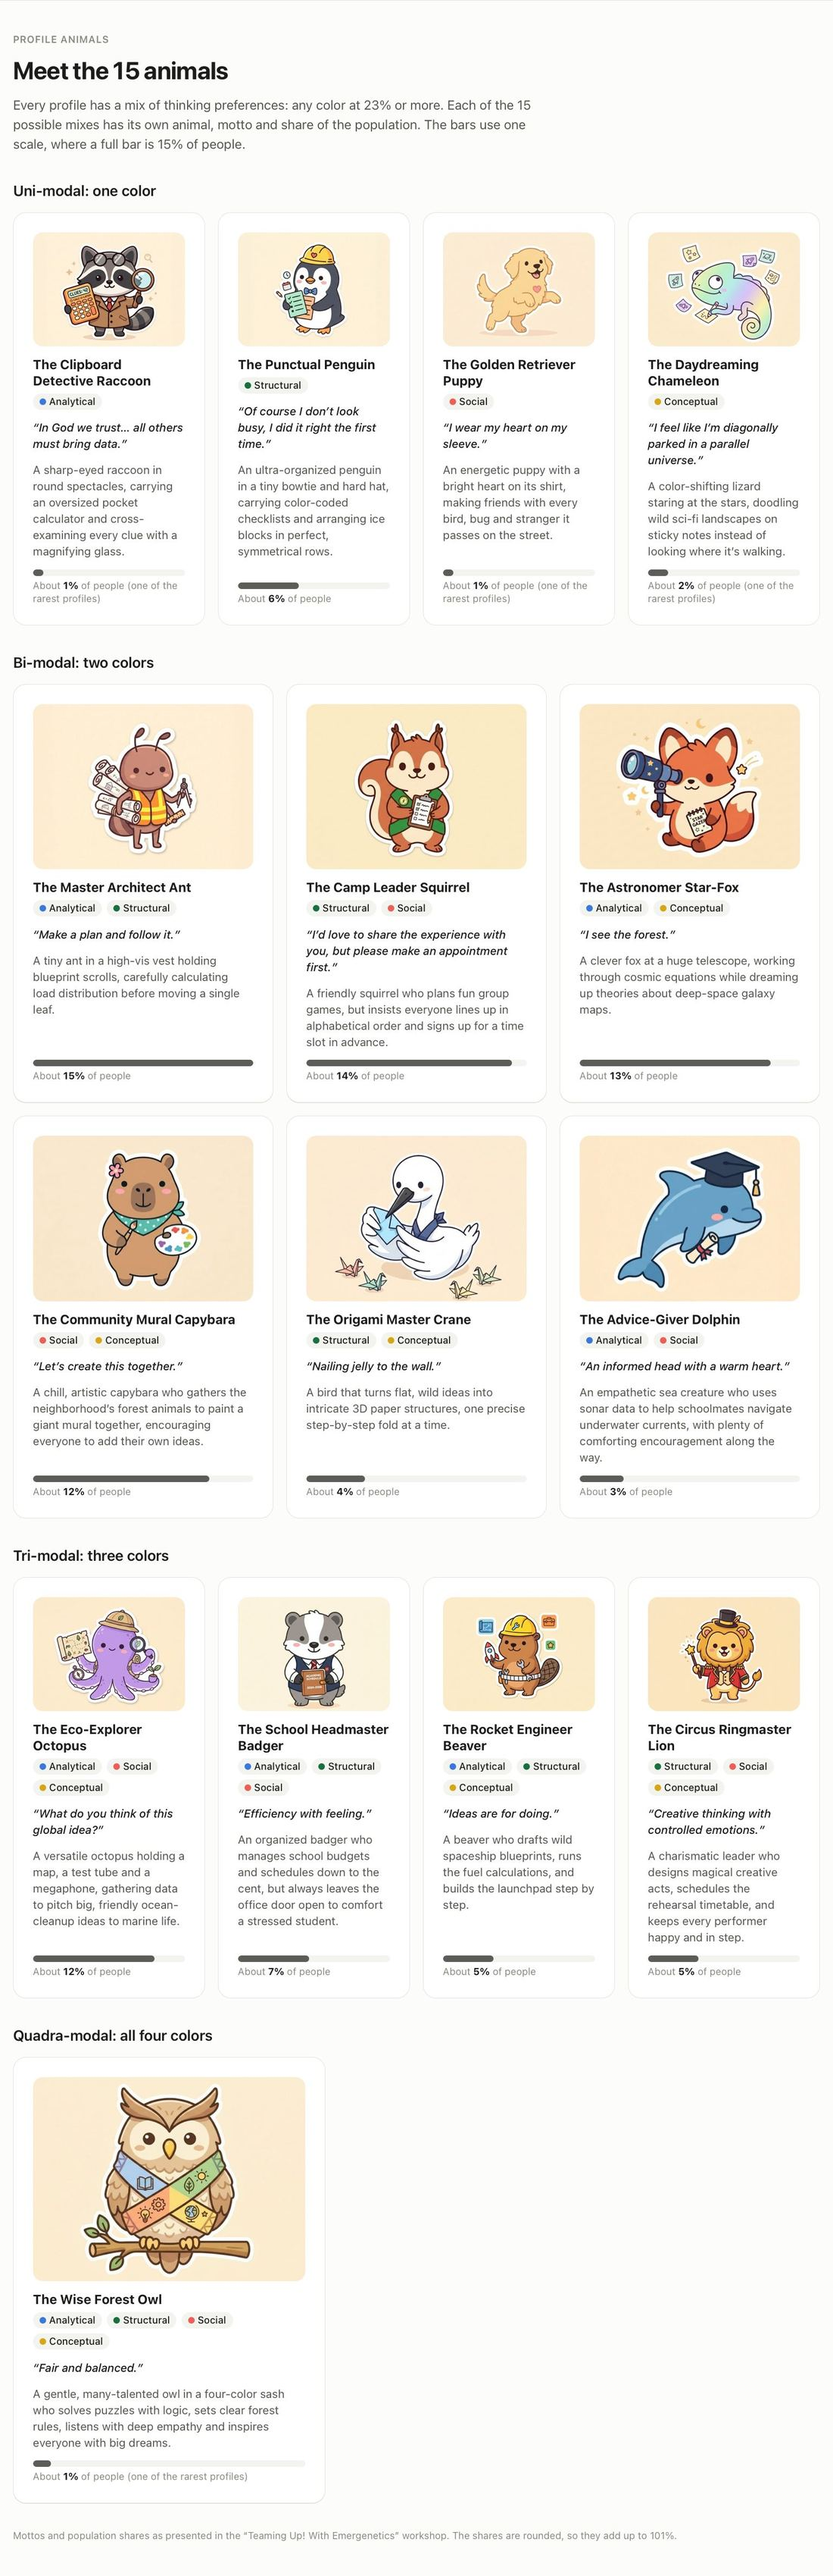
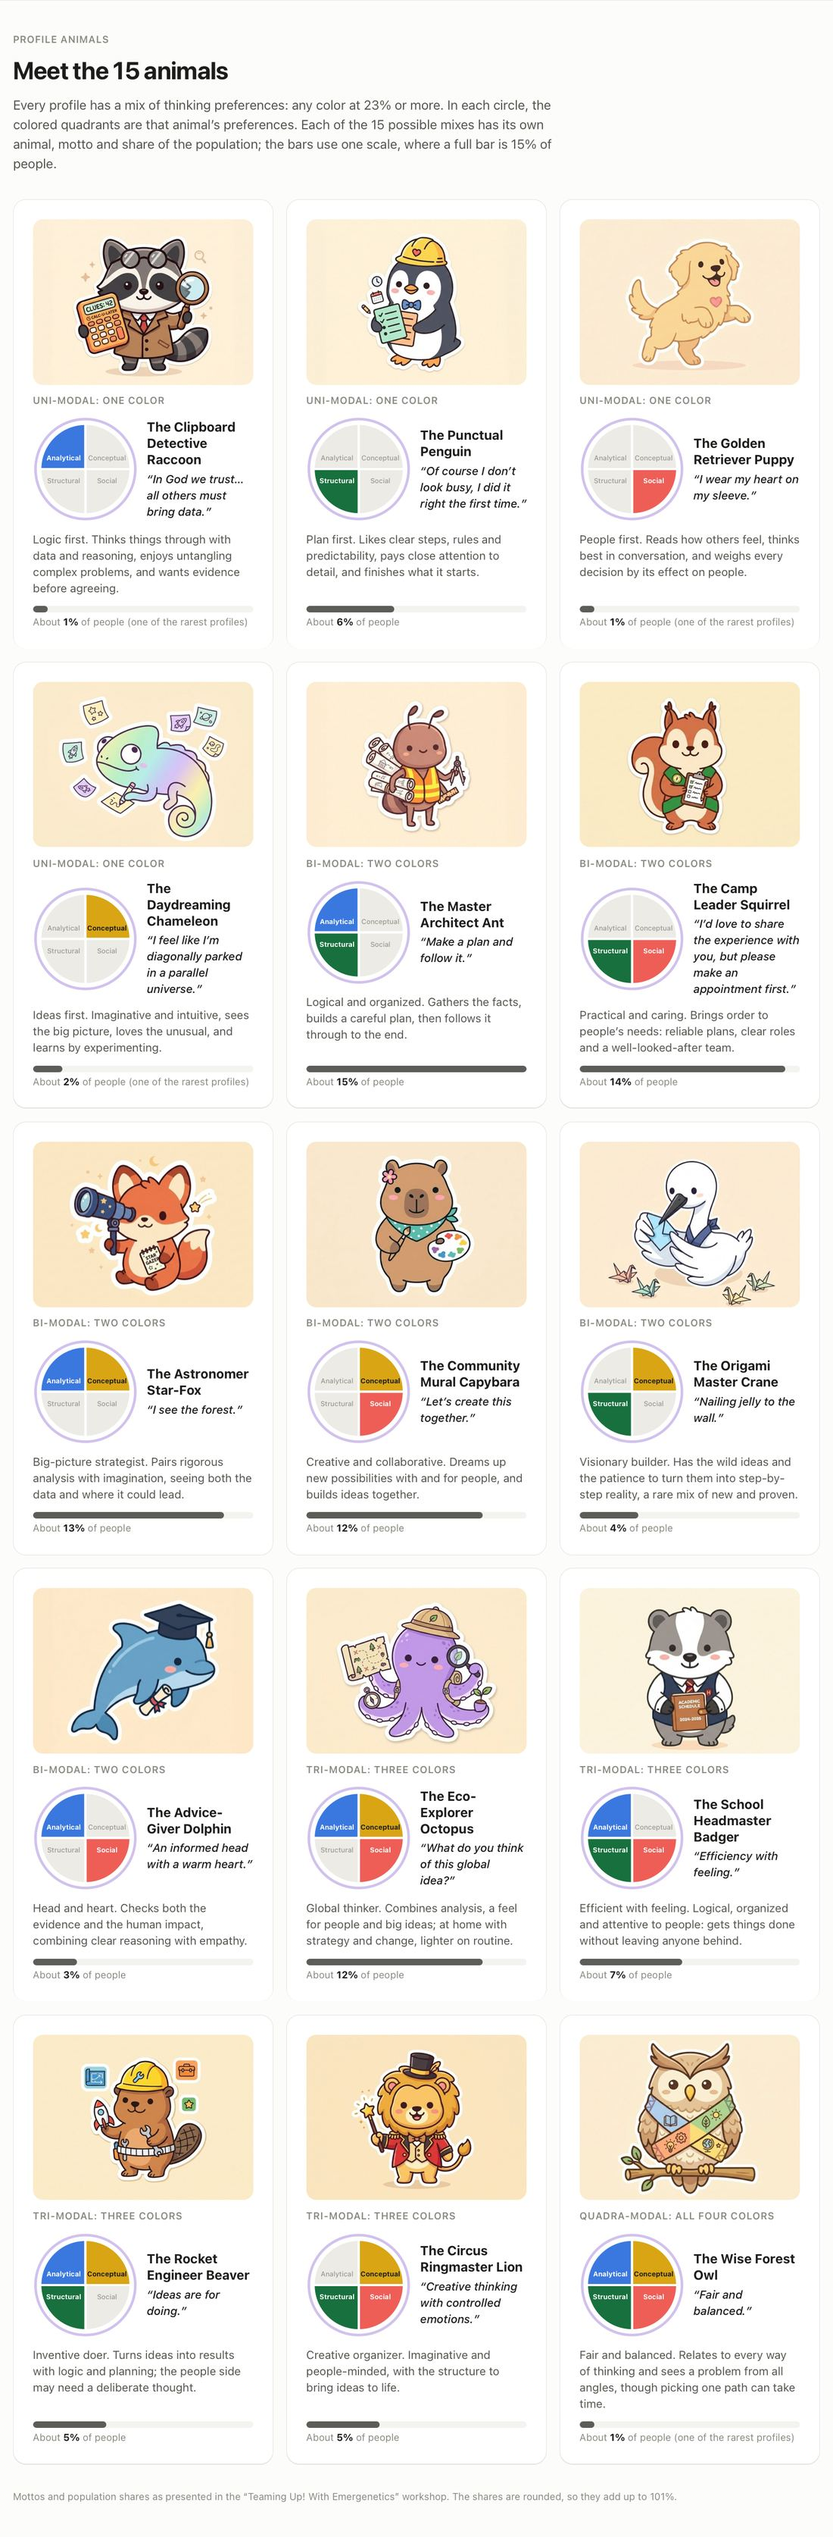
Animals: model circle, type summaries, even 3-column gallery
- Each animal shows the Emergenetics model as a four-quadrant circle
  (Analytical top-left, Conceptual top-right, Structural bottom-left,
  Social bottom-right): preferred quadrants in color, the rest pale, with a
  purple ring for the behaviors. Replaces the color chips.
- The illustration briefs are replaced with a short description of each
  thinking-preference mix.
- The gallery is one grid of five rows of three (each card labeled with its
  group), instead of per-group grids that left single cards on a row.

diff --git a/src/lib/animals.ts b/src/lib/animals.ts
@@ -2,13 +2,14 @@ import { THINKING_KEYS, type ThinkingKey } from "./attributes";
 
 // One animal for each combination of thinking preferences (15 in all: every set of one to
 // four colors). Mottos and population shares are as presented in the "Teaming Up! With
-// Emergenetics" workshop; the animals and their descriptions are this project's own.
+// Emergenetics" workshop; the animals and summaries are this project's own.
 
 export interface Animal {
   /** Thinking preferences, in the standard Analytical/Structural/Social/Conceptual order. */
   colors: ThinkingKey[];
   name: string;
-  description: string;
+  /** What this mix of thinking preferences is like, in a sentence or two. */
+  summary: string;
   motto: string;
   /** Share of people with this profile, in percent. */
   rarity: number;
@@ -19,8 +20,7 @@ export const ANIMALS: Animal[] = [
   {
     colors: ["analytical"],
     name: "The Clipboard Detective Raccoon",
-    description:
-      "A sharp-eyed raccoon in round spectacles, carrying an oversized pocket calculator and cross-examining every clue with a magnifying glass.",
+    summary: "Logic first. Thinks things through with data and reasoning, enjoys untangling complex problems, and wants evidence before agreeing.",
     motto: "In God we trust… all others must bring data.",
     rarity: 1,
     image: "raccoon.jpg",
@@ -28,8 +28,7 @@ export const ANIMALS: Animal[] = [
   {
     colors: ["structural"],
     name: "The Punctual Penguin",
-    description:
-      "An ultra-organized penguin in a tiny bowtie and hard hat, carrying color-coded checklists and arranging ice blocks in perfect, symmetrical rows.",
+    summary: "Plan first. Likes clear steps, rules and predictability, pays close attention to detail, and finishes what it starts.",
     motto: "Of course I don’t look busy, I did it right the first time.",
     rarity: 6,
     image: "penguin.jpg",
@@ -37,8 +36,7 @@ export const ANIMALS: Animal[] = [
   {
     colors: ["social"],
     name: "The Golden Retriever Puppy",
-    description:
-      "An energetic puppy with a bright heart on its shirt, making friends with every bird, bug and stranger it passes on the street.",
+    summary: "People first. Reads how others feel, thinks best in conversation, and weighs every decision by its effect on people.",
     motto: "I wear my heart on my sleeve.",
     rarity: 1,
     image: "puppy.jpg",
@@ -46,8 +44,7 @@ export const ANIMALS: Animal[] = [
   {
     colors: ["conceptual"],
     name: "The Daydreaming Chameleon",
-    description:
-      "A color-shifting lizard staring at the stars, doodling wild sci-fi landscapes on sticky notes instead of looking where it’s walking.",
+    summary: "Ideas first. Imaginative and intuitive, sees the big picture, loves the unusual, and learns by experimenting.",
     motto: "I feel like I’m diagonally parked in a parallel universe.",
     rarity: 2,
     image: "chameleon.jpg",
@@ -55,8 +52,7 @@ export const ANIMALS: Animal[] = [
   {
     colors: ["analytical", "structural"],
     name: "The Master Architect Ant",
-    description:
-      "A tiny ant in a high-vis vest holding blueprint scrolls, carefully calculating load distribution before moving a single leaf.",
+    summary: "Logical and organized. Gathers the facts, builds a careful plan, then follows it through to the end.",
     motto: "Make a plan and follow it.",
     rarity: 15,
     image: "ant.jpg",
@@ -64,8 +60,7 @@ export const ANIMALS: Animal[] = [
   {
     colors: ["structural", "social"],
     name: "The Camp Leader Squirrel",
-    description:
-      "A friendly squirrel who plans fun group games, but insists everyone lines up in alphabetical order and signs up for a time slot in advance.",
+    summary: "Practical and caring. Brings order to people\u2019s needs: reliable plans, clear roles and a well-looked-after team.",
     motto: "I’d love to share the experience with you, but please make an appointment first.",
     rarity: 14,
     image: "squirrel.jpg",
@@ -73,8 +68,7 @@ export const ANIMALS: Animal[] = [
   {
     colors: ["analytical", "conceptual"],
     name: "The Astronomer Star-Fox",
-    description:
-      "A clever fox at a huge telescope, working through cosmic equations while dreaming up theories about deep-space galaxy maps.",
+    summary: "Big-picture strategist. Pairs rigorous analysis with imagination, seeing both the data and where it could lead.",
     motto: "I see the forest.",
     rarity: 13,
     image: "fox.jpg",
@@ -82,8 +76,7 @@ export const ANIMALS: Animal[] = [
   {
     colors: ["social", "conceptual"],
     name: "The Community Mural Capybara",
-    description:
-      "A chill, artistic capybara who gathers the neighborhood’s forest animals to paint a giant mural together, encouraging everyone to add their own ideas.",
+    summary: "Creative and collaborative. Dreams up new possibilities with and for people, and builds ideas together.",
     motto: "Let’s create this together.",
     rarity: 12,
     image: "capybara.jpg",
@@ -91,8 +84,7 @@ export const ANIMALS: Animal[] = [
   {
     colors: ["structural", "conceptual"],
     name: "The Origami Master Crane",
-    description:
-      "A bird that turns flat, wild ideas into intricate 3D paper structures, one precise step-by-step fold at a time.",
+    summary: "Visionary builder. Has the wild ideas and the patience to turn them into step-by-step reality, a rare mix of new and proven.",
     motto: "Nailing jelly to the wall.",
     rarity: 4,
     image: "crane.jpg",
@@ -100,8 +92,7 @@ export const ANIMALS: Animal[] = [
   {
     colors: ["analytical", "social"],
     name: "The Advice-Giver Dolphin",
-    description:
-      "An empathetic sea creature who uses sonar data to help schoolmates navigate underwater currents, with plenty of comforting encouragement along the way.",
+    summary: "Head and heart. Checks both the evidence and the human impact, combining clear reasoning with empathy.",
     motto: "An informed head with a warm heart.",
     rarity: 3,
     image: "dolphin.jpg",
@@ -109,8 +100,7 @@ export const ANIMALS: Animal[] = [
   {
     colors: ["analytical", "social", "conceptual"],
     name: "The Eco-Explorer Octopus",
-    description:
-      "A versatile octopus holding a map, a test tube and a megaphone, gathering data to pitch big, friendly ocean-cleanup ideas to marine life.",
+    summary: "Global thinker. Combines analysis, a feel for people and big ideas; at home with strategy and change, lighter on routine.",
     motto: "What do you think of this global idea?",
     rarity: 12,
     image: "octopus.jpg",
@@ -118,8 +108,7 @@ export const ANIMALS: Animal[] = [
   {
     colors: ["analytical", "structural", "social"],
     name: "The School Headmaster Badger",
-    description:
-      "An organized badger who manages school budgets and schedules down to the cent, but always leaves the office door open to comfort a stressed student.",
+    summary: "Efficient with feeling. Logical, organized and attentive to people: gets things done without leaving anyone behind.",
     motto: "Efficiency with feeling.",
     rarity: 7,
     image: "badger.jpg",
@@ -127,8 +116,7 @@ export const ANIMALS: Animal[] = [
   {
     colors: ["analytical", "structural", "conceptual"],
     name: "The Rocket Engineer Beaver",
-    description:
-      "A beaver who drafts wild spaceship blueprints, runs the fuel calculations, and builds the launchpad step by step.",
+    summary: "Inventive doer. Turns ideas into results with logic and planning; the people side may need a deliberate thought.",
     motto: "Ideas are for doing.",
     rarity: 5,
     image: "beaver.jpg",
@@ -136,8 +124,7 @@ export const ANIMALS: Animal[] = [
   {
     colors: ["structural", "social", "conceptual"],
     name: "The Circus Ringmaster Lion",
-    description:
-      "A charismatic leader who designs magical creative acts, schedules the rehearsal timetable, and keeps every performer happy and in step.",
+    summary: "Creative organizer. Imaginative and people-minded, with the structure to bring ideas to life.",
     motto: "Creative thinking with controlled emotions.",
     rarity: 5,
     image: "lion.jpg",
@@ -145,8 +132,7 @@ export const ANIMALS: Animal[] = [
   {
     colors: ["analytical", "structural", "social", "conceptual"],
     name: "The Wise Forest Owl",
-    description:
-      "A gentle, many-talented owl in a four-color sash who solves puzzles with logic, sets clear forest rules, listens with deep empathy and inspires everyone with big dreams.",
+    summary: "Fair and balanced. Relates to every way of thinking and sees a problem from all angles, though picking one path can take time.",
     motto: "Fair and balanced.",
     rarity: 1,
     image: "owl.jpg",

diff --git a/src/app/animals/page.tsx b/src/app/animals/page.tsx
@@ -4,15 +4,8 @@ import Link from "next/link";
 import { ANIMAL_GROUPS, ANIMALS, animalFor, animalImage } from "@/lib/animals";
 import { decodeProfile } from "@/lib/share";
 import { useHash } from "@/lib/useHash";
-import { ColorChips, RarityBar, RARITY_SCALE } from "@/components/AnimalCard";
-
-// Columns that the group fills evenly: 4 animals in one row of four (two rows of two on tablets),
-// 6 in rows of three, and the single quadra-modal owl as one card.
-const GRID: Record<number, string> = {
-  1: "max-w-sm",
-  4: "sm:grid-cols-2 lg:grid-cols-4",
-  6: "sm:grid-cols-2 lg:grid-cols-3",
-};
+import { RarityBar, RARITY_SCALE } from "@/components/AnimalCard";
+import { ModelCircle } from "@/components/ModelCircle";
 
 /** All 15 profile animals, grouped by how many thinking colors are preferences. */
 export default function AnimalsPage() {
@@ -26,9 +19,9 @@ export default function AnimalsPage() {
         <p className="eyebrow">Profile animals</p>
         <h1 className="text-3xl font-bold tracking-tight">Meet the 15 animals</h1>
         <p className="max-w-2xl text-ink-soft">
-          Every profile has a mix of thinking preferences: any color at 23% or more. Each of the 15 possible mixes has its
-          own animal, motto and share of the population. The bars use one scale, where a full bar is {RARITY_SCALE}% of
-          people.
+          Every profile has a mix of thinking preferences: any color at 23% or more. In each circle, the colored quadrants
+          are that animal&rsquo;s preferences. Each of the 15 possible mixes has its own animal, motto and share of the
+          population; the bars use one scale, where a full bar is {RARITY_SCALE}% of people.
         </p>
         {profile && mine && (
           <p className="no-print rounded-xl border border-line bg-surface-card p-3 text-sm">
@@ -40,42 +33,42 @@ export default function AnimalsPage() {
         )}
       </header>
 
-      {ANIMAL_GROUPS.map((g) => (
-        <section key={g.size} className="space-y-3">
-          <h2 className="text-lg font-semibold">{g.title}</h2>
-          <ul className={`grid gap-4 ${GRID[ANIMALS.filter((a) => a.colors.length === g.size).length] ?? GRID[6]}`}>
-            {ANIMALS.filter((a) => a.colors.length === g.size).map((a) => {
-              const isMine = mine?.name === a.name;
-              return (
-                <li
-                  key={a.name}
-                  className={`card flex flex-col gap-3 ${isMine ? "border-ink ring-2 ring-ink" : ""}`}
-                  aria-current={isMine ? "true" : undefined}
-                >
-                  <img
-                    src={animalImage(a)}
-                    alt={`${a.name}: ${a.description}`}
-                    width={640}
-                    height={480}
-                    loading="lazy"
-                    className="w-full rounded-xl"
-                  />
-                  <div className="space-y-1.5">
-                    {isMine && <p className="eyebrow text-ink">{profile?.name}&rsquo;s animal</p>}
-                    <h3 className="font-bold leading-tight">{a.name}</h3>
-                    <ColorChips colors={a.colors} />
-                  </div>
-                  <blockquote className="text-sm font-medium italic">&ldquo;{a.motto}&rdquo;</blockquote>
-                  <p className="text-sm text-ink-soft">{a.description}</p>
-                  <div className="mt-auto">
-                    <RarityBar rarity={a.rarity} />
-                  </div>
-                </li>
-              );
-            })}
-          </ul>
-        </section>
-      ))}
+      {/* One grid of 15 cards: five even rows of three, ordered from one color to all four. */}
+      <ul className="grid gap-4 sm:grid-cols-2 lg:grid-cols-3">
+        {ANIMALS.map((a) => {
+          const isMine = mine?.name === a.name;
+          return (
+            <li
+              key={a.name}
+              className={`card flex flex-col gap-3 ${isMine ? "border-ink ring-2 ring-ink" : ""}`}
+              aria-current={isMine ? "true" : undefined}
+            >
+              <img
+                src={animalImage(a)}
+                alt={a.name}
+                width={640}
+                height={480}
+                loading="lazy"
+                className="w-full rounded-xl"
+              />
+              <p className={`eyebrow ${isMine ? "text-ink" : ""}`}>
+                {isMine ? `${profile?.name}’s animal` : ANIMAL_GROUPS.find((g) => g.size === a.colors.length)?.title}
+              </p>
+              <div className="flex items-center gap-3">
+                <ModelCircle colors={a.colors} size={128} />
+                <div className="min-w-0 space-y-1">
+                  <h3 className="font-bold leading-tight">{a.name}</h3>
+                  <p className="text-sm font-medium italic">&ldquo;{a.motto}&rdquo;</p>
+                </div>
+              </div>
+              <p className="text-sm text-ink-soft">{a.summary}</p>
+              <div className="mt-auto">
+                <RarityBar rarity={a.rarity} />
+              </div>
+            </li>
+          );
+        })}
+      </ul>
 
       <p className="text-xs text-ink-muted">
         Mottos and population shares as presented in the &ldquo;Teaming Up! With Emergenetics&rdquo; workshop. The shares

diff --git a/src/components/AnimalCard.tsx b/src/components/AnimalCard.tsx
@@ -1,22 +1,9 @@
 import Link from "next/link";
-import { THINKING, type ThinkingKey } from "@/lib/attributes";
 import { animalImage, type Animal } from "@/lib/animals";
+import { ModelCircle } from "./ModelCircle";
 
 /** Largest share of any profile, used as the full width of every rarity bar so they compare. */
 export const RARITY_SCALE = 15;
-
-export function ColorChips({ colors }: { colors: ThinkingKey[] }) {
-  return (
-    <span className="flex flex-wrap gap-1.5">
-      {colors.map((k) => (
-        <span key={k} className="inline-flex items-center gap-1 rounded-full bg-surface-sunken px-2 py-0.5 text-xs font-medium">
-          <span className="h-2 w-2 rounded-full" style={{ background: THINKING[k].color }} aria-hidden />
-          {THINKING[k].name}
-        </span>
-      ))}
-    </span>
-  );
-}
 
 export function RarityBar({ rarity }: { rarity: number }) {
   return (
@@ -34,22 +21,18 @@ export function RarityBar({ rarity }: { rarity: number }) {
 /** The "Your animal" section of a report. */
 export function AnimalCard({ animal, code }: { animal: Animal; code: string }) {
   return (
-    <section className="card grid items-center gap-5 sm:grid-cols-[minmax(0,240px)_1fr]">
-      <img
-        src={animalImage(animal)}
-        alt={`${animal.name}: ${animal.description}`}
-        width={640}
-        height={480}
-        className="mx-auto w-full max-w-[280px] rounded-xl"
-      />
+    <section className="card grid items-center gap-5 sm:grid-cols-[minmax(0,260px)_1fr]">
+      <img src={animalImage(animal)} alt={animal.name} width={640} height={480} className="mx-auto w-full max-w-[300px] rounded-xl" />
       <div className="min-w-0 space-y-3">
-        <div className="space-y-1.5">
-          <p className="eyebrow">Your profile animal</p>
-          <h2 className="text-xl font-bold leading-tight">{animal.name}</h2>
-          <ColorChips colors={animal.colors} />
+        <div className="flex items-center gap-4">
+          <ModelCircle colors={animal.colors} size={136} />
+          <div className="min-w-0 space-y-1">
+            <p className="eyebrow">Your profile animal</p>
+            <h2 className="text-xl font-bold leading-tight">{animal.name}</h2>
+            <p className="text-base font-medium italic">&ldquo;{animal.motto}&rdquo;</p>
+          </div>
         </div>
-        <p className="text-sm text-ink-soft">{animal.description}</p>
-        <blockquote className="border-l-4 border-line pl-3 text-base font-medium italic">&ldquo;{animal.motto}&rdquo;</blockquote>
+        <p className="text-sm text-ink-soft">{animal.summary}</p>
         <RarityBar rarity={animal.rarity} />
         <Link href={`/animals/#${code}`} className="no-print inline-block text-sm font-medium underline">
           Meet all 15 animals

diff --git a/src/components/ModelCircle.tsx b/src/components/ModelCircle.tsx
@@ -1,0 +1,45 @@
+import { THINKING, type ThinkingKey } from "@/lib/attributes";
+
+// The Emergenetics model as drawn in the workshop: a circle in four quadrants, Analytical
+// top-left, Conceptual top-right, Structural bottom-left and Social bottom-right. Preferred
+// quadrants are filled in their color; the rest stay pale. The purple ring stands for the
+// three behaviors that sit around the thinking attributes.
+
+const QUADRANTS: Array<{ key: ThinkingKey; path: string; x: number; y: number }> = [
+  { key: "analytical", path: "M60 60 L8 60 A52 52 0 0 1 60 8 Z", x: 35, y: 50 },
+  { key: "conceptual", path: "M60 60 L60 8 A52 52 0 0 1 112 60 Z", x: 85, y: 50 },
+  { key: "social", path: "M60 60 L112 60 A52 52 0 0 1 60 112 Z", x: 85, y: 76 },
+  { key: "structural", path: "M60 60 L60 112 A52 52 0 0 1 8 60 Z", x: 35, y: 76 },
+];
+
+const PALE = "#ecebe6";
+const PALE_TEXT = "#9a9a92";
+
+export function ModelCircle({ colors, size = 120 }: { colors: ThinkingKey[]; size?: number }) {
+  const preferred = new Set(colors);
+  const label = `Thinking preferences: ${colors.map((k) => THINKING[k].name).join(", ")}`;
+  return (
+    <svg viewBox="0 0 120 120" width={size} height={size} role="img" aria-label={label} className="shrink-0">
+      <title>{label}</title>
+      <circle cx="60" cy="60" r="57.5" fill="none" stroke="#7C4DCC" strokeOpacity="0.35" strokeWidth="3" />
+      {QUADRANTS.map((q) => {
+        const on = preferred.has(q.key);
+        return (
+          <g key={q.key}>
+            <path d={q.path} fill={on ? THINKING[q.key].color : PALE} stroke="#ffffff" strokeWidth="2.5" />
+            <text
+              x={q.x}
+              y={q.y}
+              textAnchor="middle"
+              fontSize="8"
+              fontWeight={on ? 700 : 500}
+              fill={on ? (q.key === "conceptual" ? "#1c1c1a" : "#ffffff") : PALE_TEXT}
+            >
+              {THINKING[q.key].name}
+            </text>
+          </g>
+        );
+      })}
+    </svg>
+  );
+}
